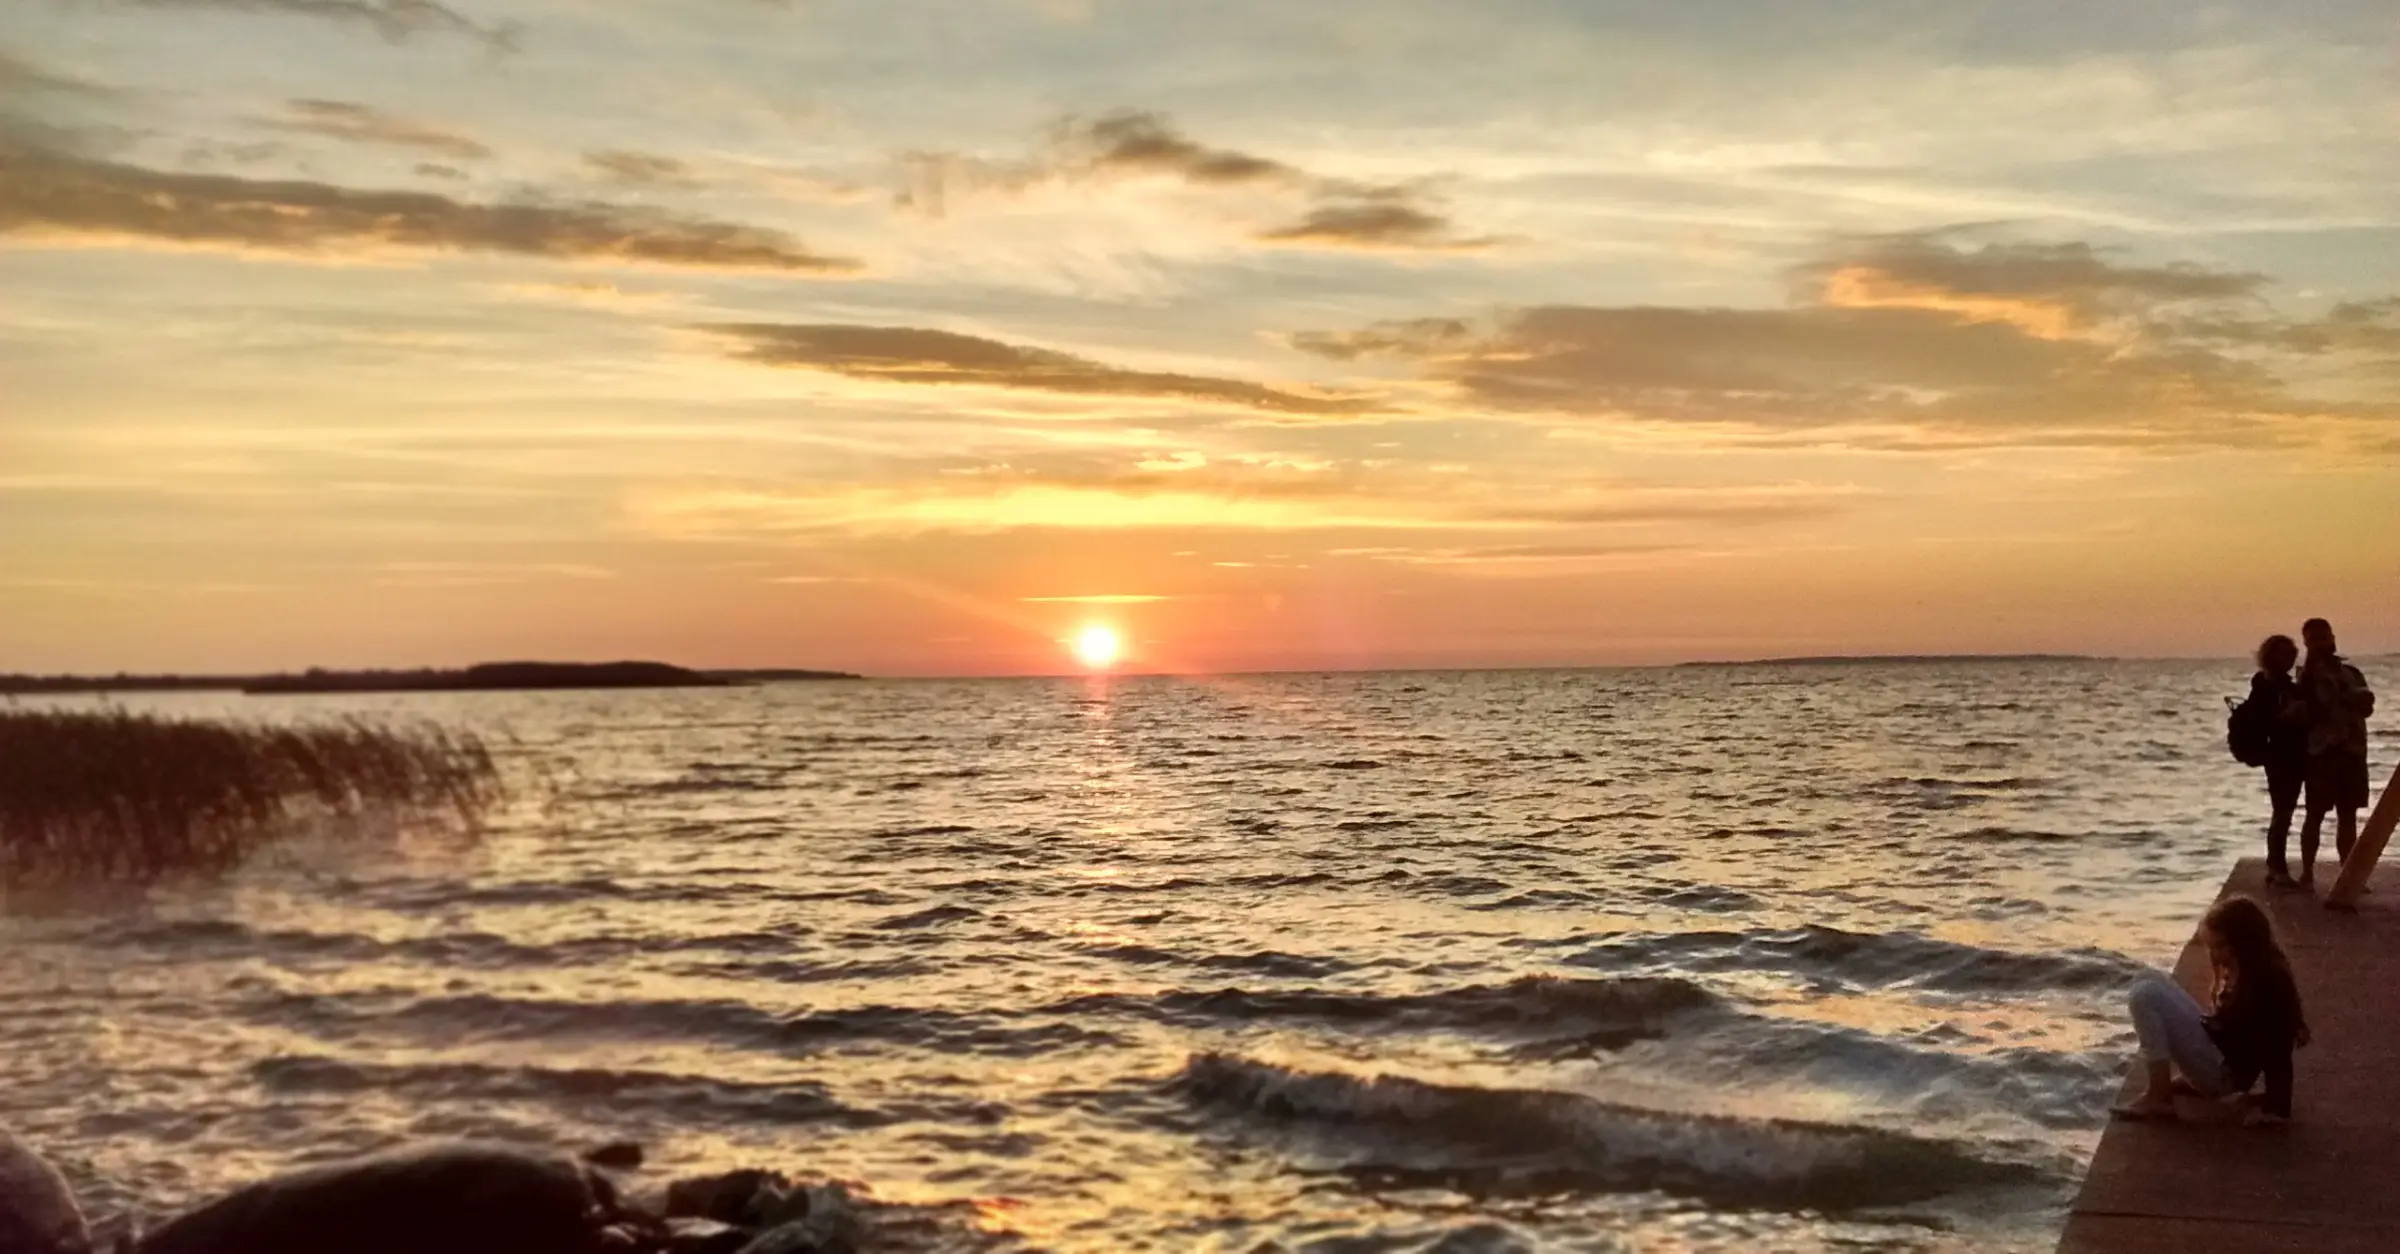
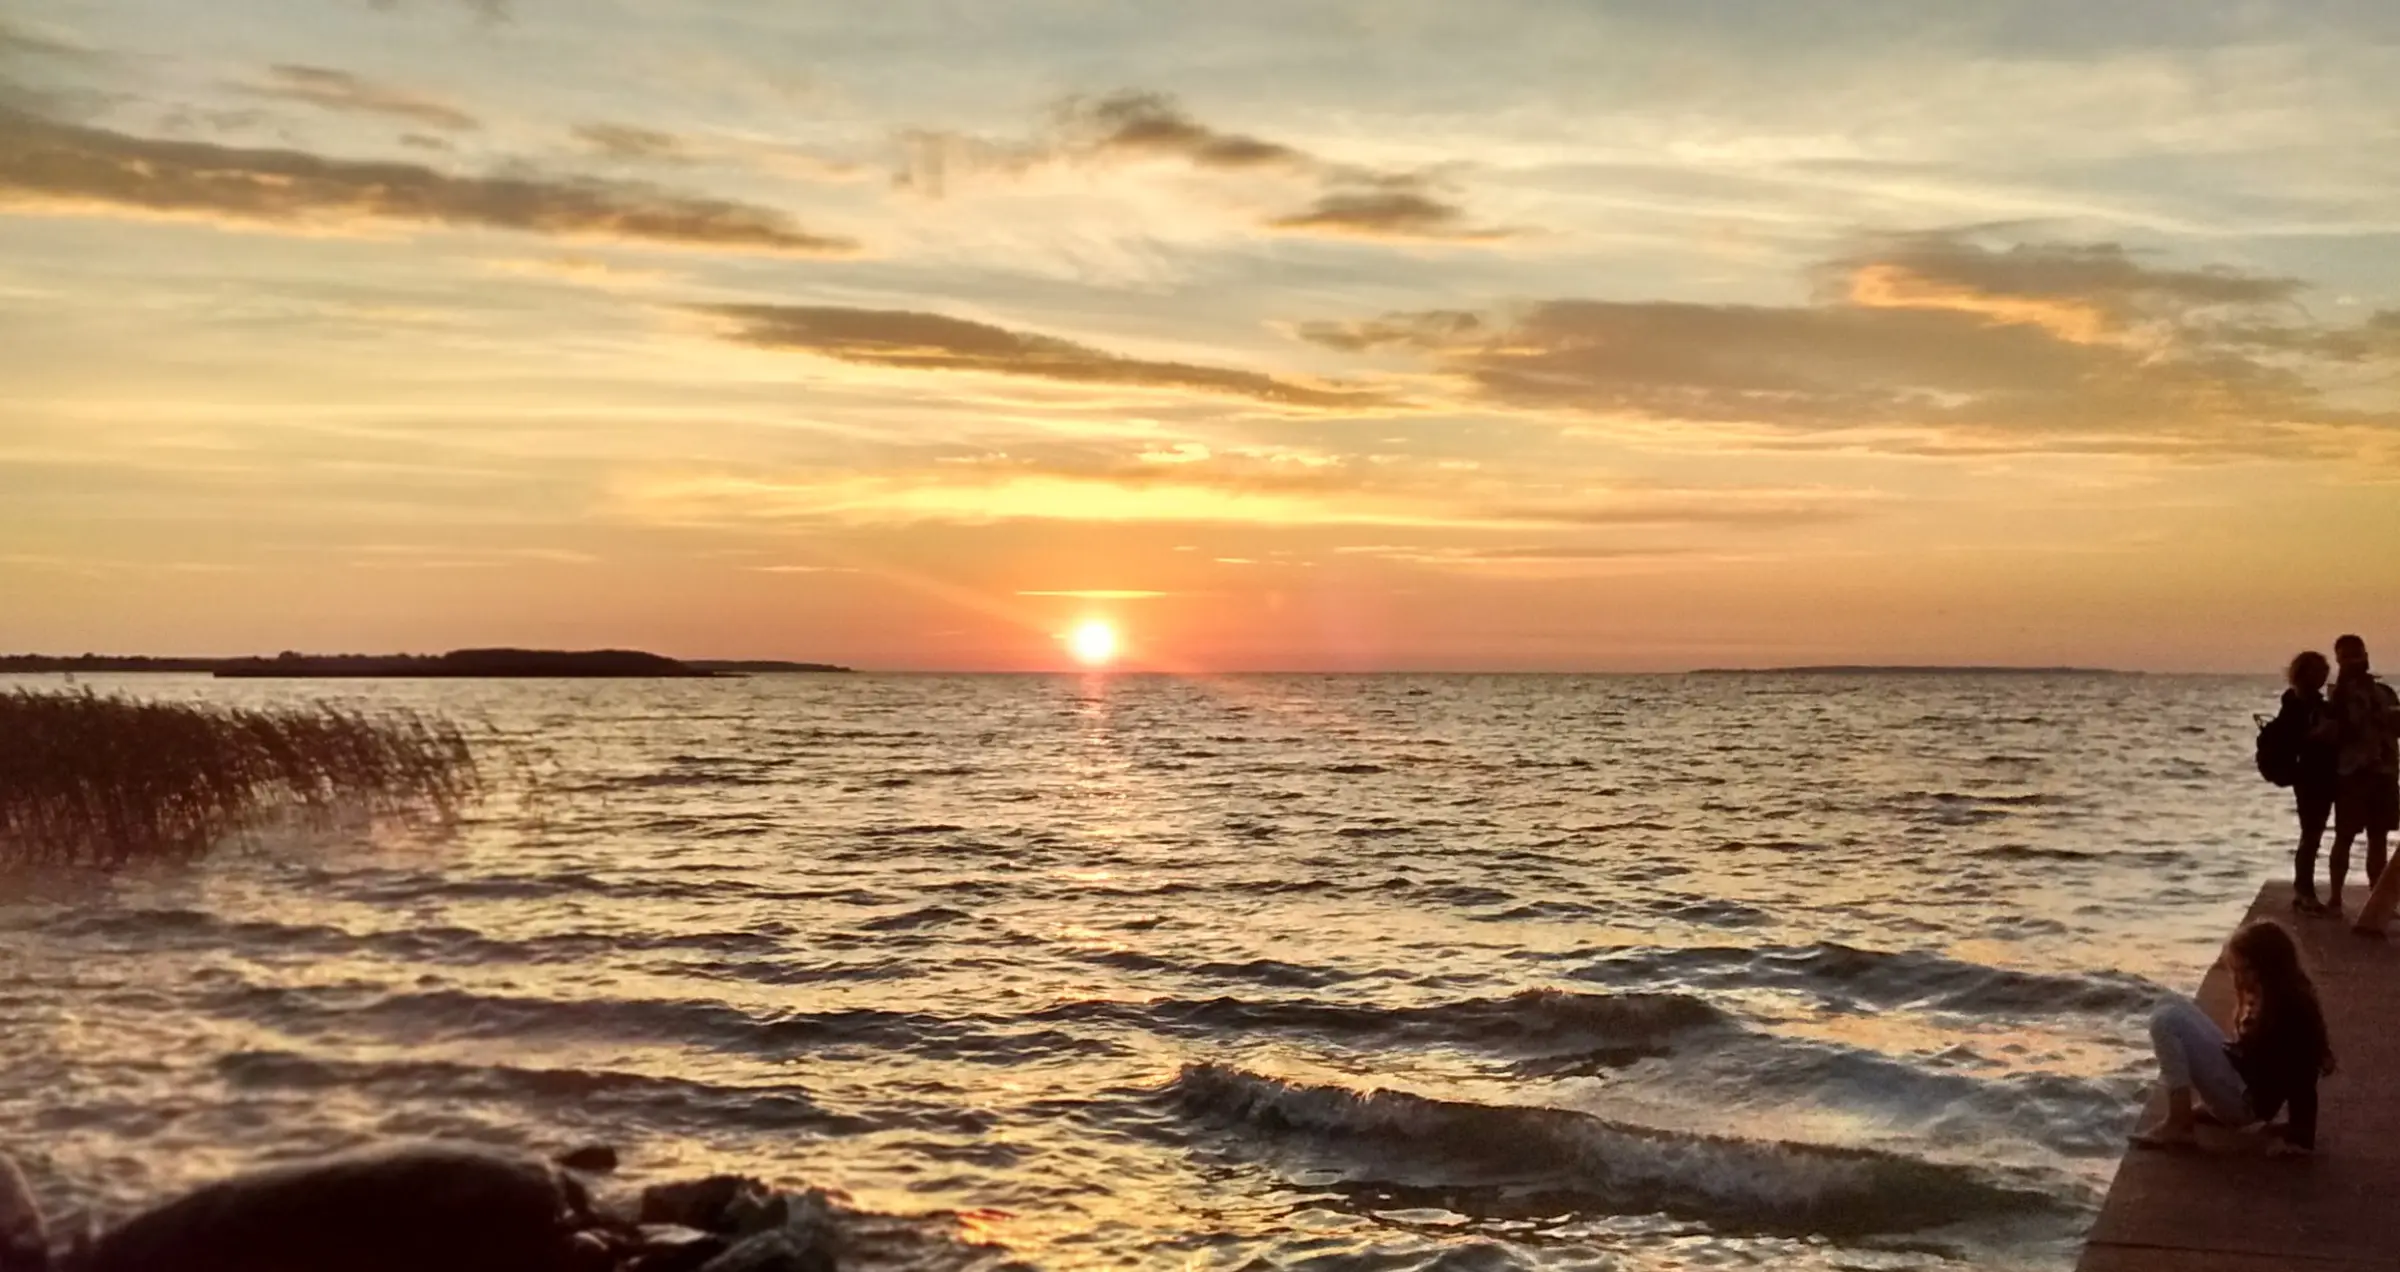
pildid otseks

diff --git a/components/content/SideBar.vue b/components/content/SideBar.vue
@@ -18,13 +18,14 @@
 
 </script>
 <template>
-    <section class="h-screen h-[110vh] sticky top-0 left-0 
+    <section class="w-12 h-screen h-[100dvh] fixed top-0 left-0 
+        sm:w-15 md:w-20 xl:w-32
         flex flex-col justify-between items-center gap-6
-        bg-primary-200 shadow-md
+        bg-primary-200 
         dark:bg-black
         print:invisible">
         
-        <nav class="flex flex-col gap-4 mt-[10vh]">
+        <nav class="flex flex-col gap-4 mt-[15vh]">
             <!-- <IconButton icon="icon-park-outline:list" label="LOOD" @click="toggleList" />
             <IconButton icon="icon-park-outline:writing-fluently" label="TEOD" @click="toggleEx" /> -->
             <NuxtLink to="/lood">
@@ -34,11 +35,11 @@
                 <IconButton icon="icon-park-outline:writing-fluently" label="TEOD" />
             </NuxtLink>
         </nav>
-        <ColorModeSwitch class="mb-[20vh] dark:text-primary-100 
+        <ColorModeSwitch class="mb-[15vh] dark:text-primary-100 
         hover:text-primary-700 dark:hover:text-primary-300" />
 
     </section>
-    <Teleport to="body">
+    <!-- <Teleport to="body">
         <div v-if="showStories" class="fixed min-h-screen top-0 left-0 w-full z-50 bg-white" >
             <list-of-stories />
             <div class="fixed right-8 top-4">
@@ -51,5 +52,5 @@
                 <CloseButton @click="toggleEx" />
             </div>
         </div>
-    </Teleport>  
+    </Teleport>   -->
 </template>

diff --git a/components/content/ListOfStories.vue b/components/content/ListOfStories.vue
@@ -107,11 +107,11 @@
     places.value = sortedPlaces();
 
 
-    const showStories = listOpen();
+    // const showStories = listOpen();
 
-    const closeList = () => {
-        showStories.value = false;
-    }
+    // const closeList = () => {
+    //     showStories.value = false;
+    // }
 
 </script>
 
@@ -162,7 +162,7 @@
             <template v-for="(story, i) in data">
                 <!-- <div v-if="activeGenres.length == 0 || story.genre.some(genre => activeGenres.includes(genre))"> -->
                     <NuxtLink :to="story._path"
-                        v-if="(selectedPersons.length == 0 || story.person.some(person => selectedPersons.includes(person))) && (story.genre.some(genre => selectedGenres.includes(genre)) || selectedGenres.length == 0 && (story.tags.some(place => selectedPlaces.includes(place)) || selectedPlaces.length == 0))" @click="closeList" :key="`story${i}`">
+                        v-if="(selectedPersons.length == 0 || story.person.some(person => selectedPersons.includes(person))) && (story.genre.some(genre => selectedGenres.includes(genre)) || selectedGenres.length == 0 && (story.tags.some(place => selectedPlaces.includes(place)) || selectedPlaces.length == 0))" :key="`story${i}`">
                         <Card class="bg-white ring-1 ring-secondary-300 shadow transition
                         dark:bg-secondary-800 dark:ring-secondary-700
                         hover:shadow-lg dark:hover:ring-secondary-500"

diff --git a/components/AppLayout.vue b/components/AppLayout.vue
@@ -1,11 +1,11 @@
 <script setup>
   const { cover } = useAppConfig();
-  const list = listOpen();
-  const ex = exOpen();
+  // const list = listOpen();
+  // const ex = exOpen();
   const image = modalOpen();
 
   const overflow = computed(() => {
-    if(list.value == true || ex.value == true || image.value == true) {
+    if(image.value == true) {
       return true;
     } else {
       return false;
@@ -28,7 +28,9 @@
     <Meta property="og:image" :content="cover" />
     <!-- <Meta name="twitter:card" content="summary_large_image" /> -->
     
-    <side-bar class="print:hidden"></side-bar>
+    <div class="relative">
+      <side-bar class="print:hidden"></side-bar>
+    </div>
     <section>
       <AppLoadingBar />
       <slot />

diff --git a/layouts/full-width.vue b/layouts/full-width.vue
@@ -1,5 +1,5 @@
 <template>
-    <div class="py-20 m-auto">
+    <div class="py-20 mx-auto">
         <main class=" 
           prose prose-gray dark:prose-invert">
             <slot>

diff --git a/content/_lood/87.2madis-vaher-saaremaa.md b/content/_lood/87.2madis-vaher-saaremaa.md
@@ -5,7 +5,8 @@ description: "Kui on liiga ilus ilm, siis jäetakse muu homse varna ja minnakse 
 author: Merit Karise
 images: [
     {
-        src: "madis-vaher-saaremaa.webp"
+        src: "madis-vaher-saaremaa.webp",
+        bgPos: "100% 50%"
     }
 ]
 tags: [ Saaremaa, Orissaare, Kuressaare, Illiku, Karujärv, Salme ]
